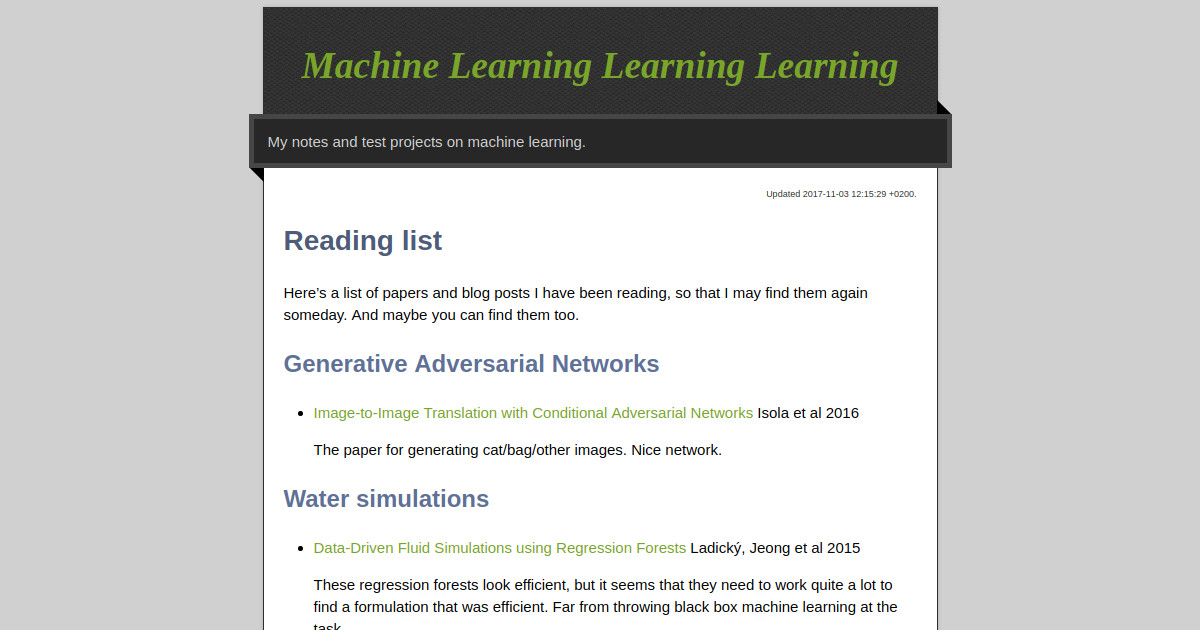
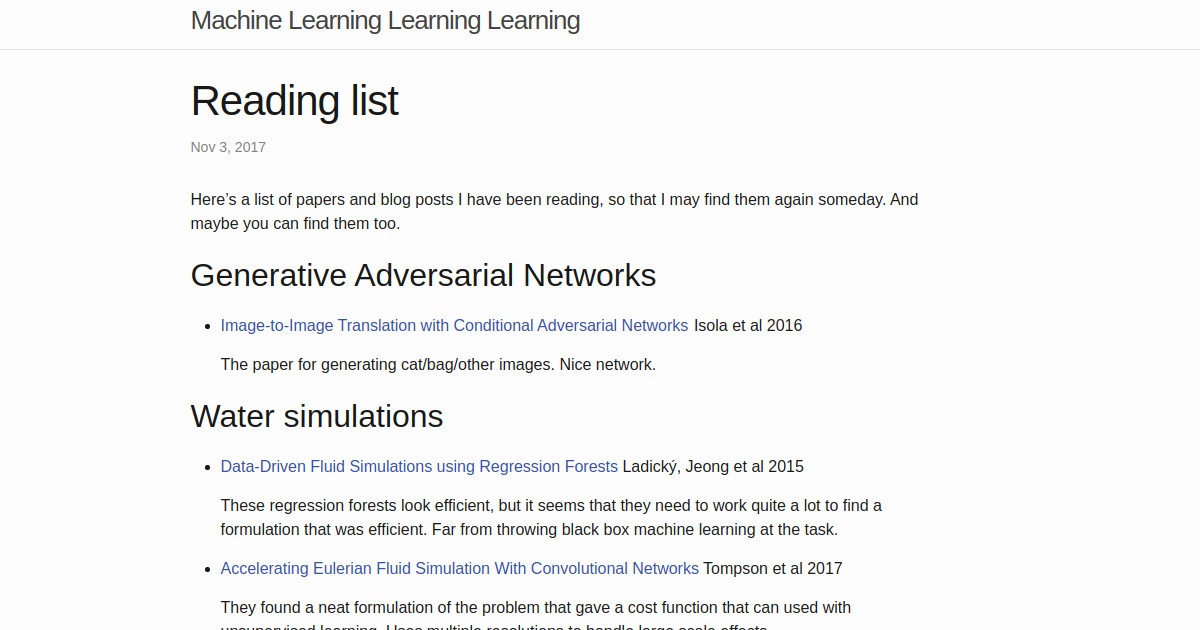
Change theme to minima
Works better in mobile

diff --git a/index.md b/index.md
@@ -5,12 +5,3 @@
 layout: home
 image: "https://jaakkotuosa.github.io/assets/images/screenshot.jpg"
 ---
-
-<h3>Entries</h3>
-<ul>
-  {% for post in site.posts %}
-    <li>
-      <a href="{{ post.url }}">{{ post.title }}</a>
-    </li>
-  {% endfor %}
-</ul>
